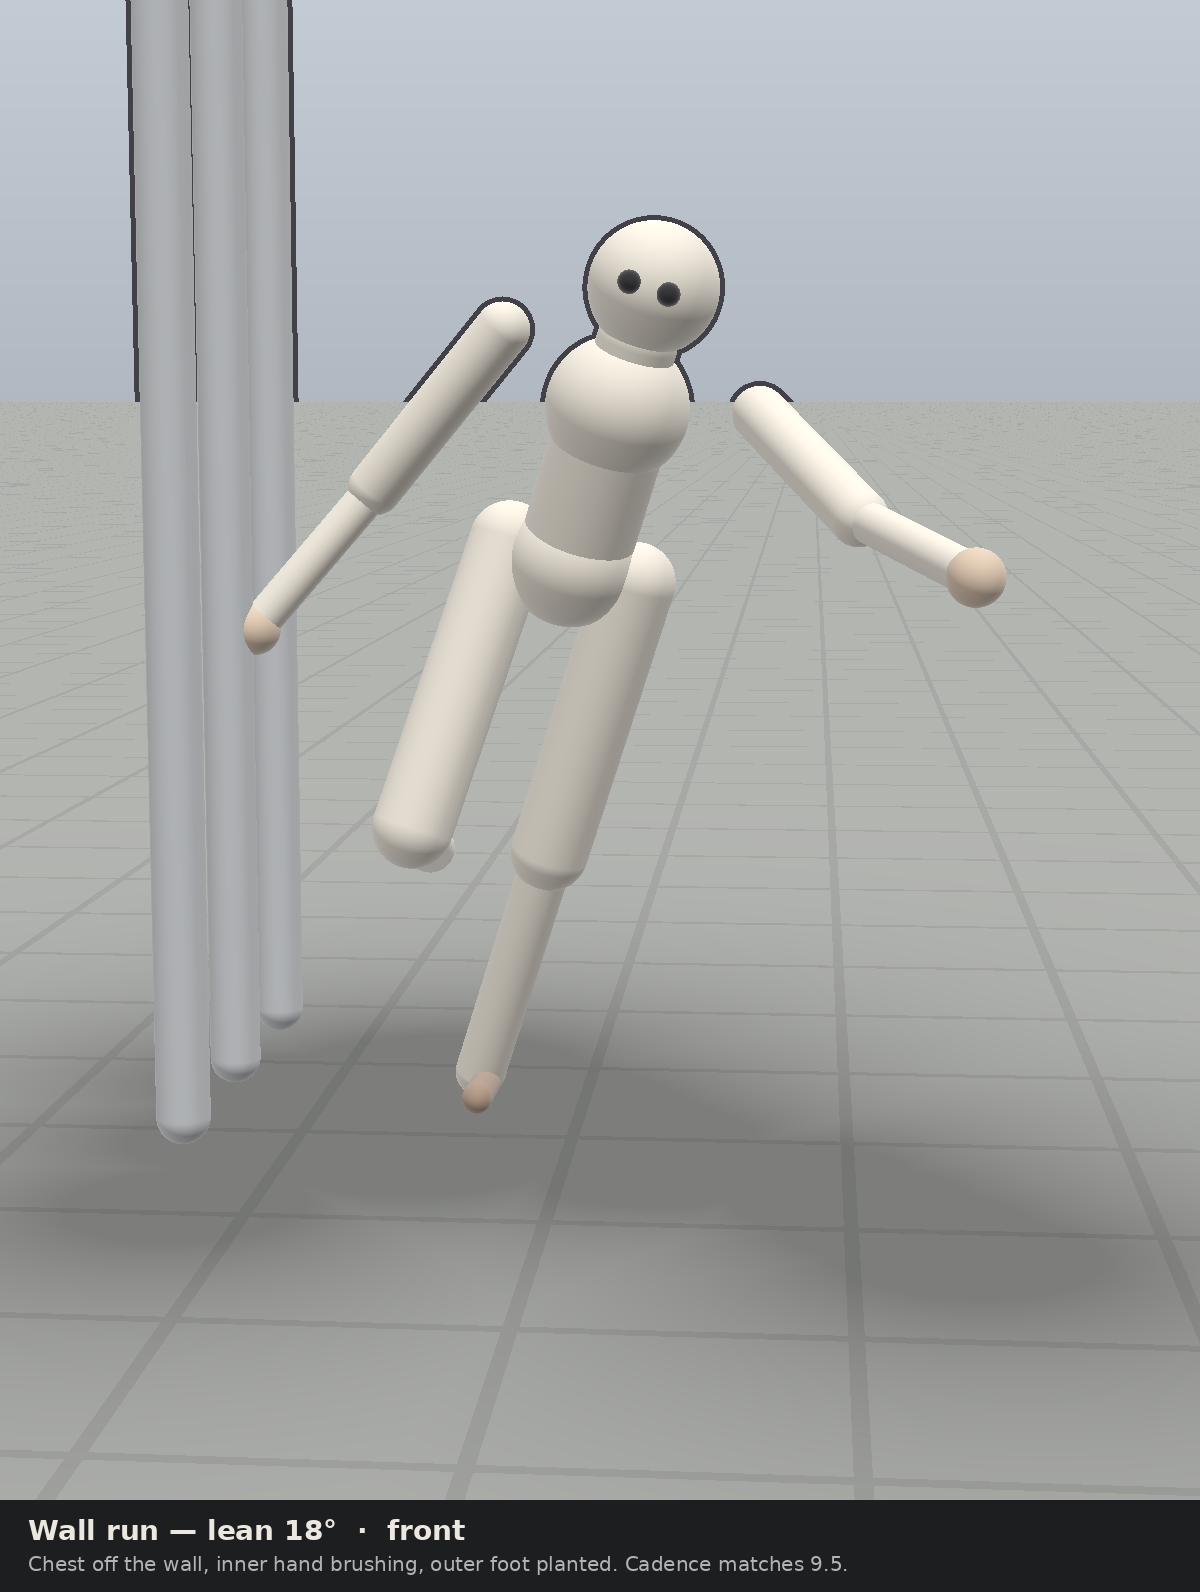
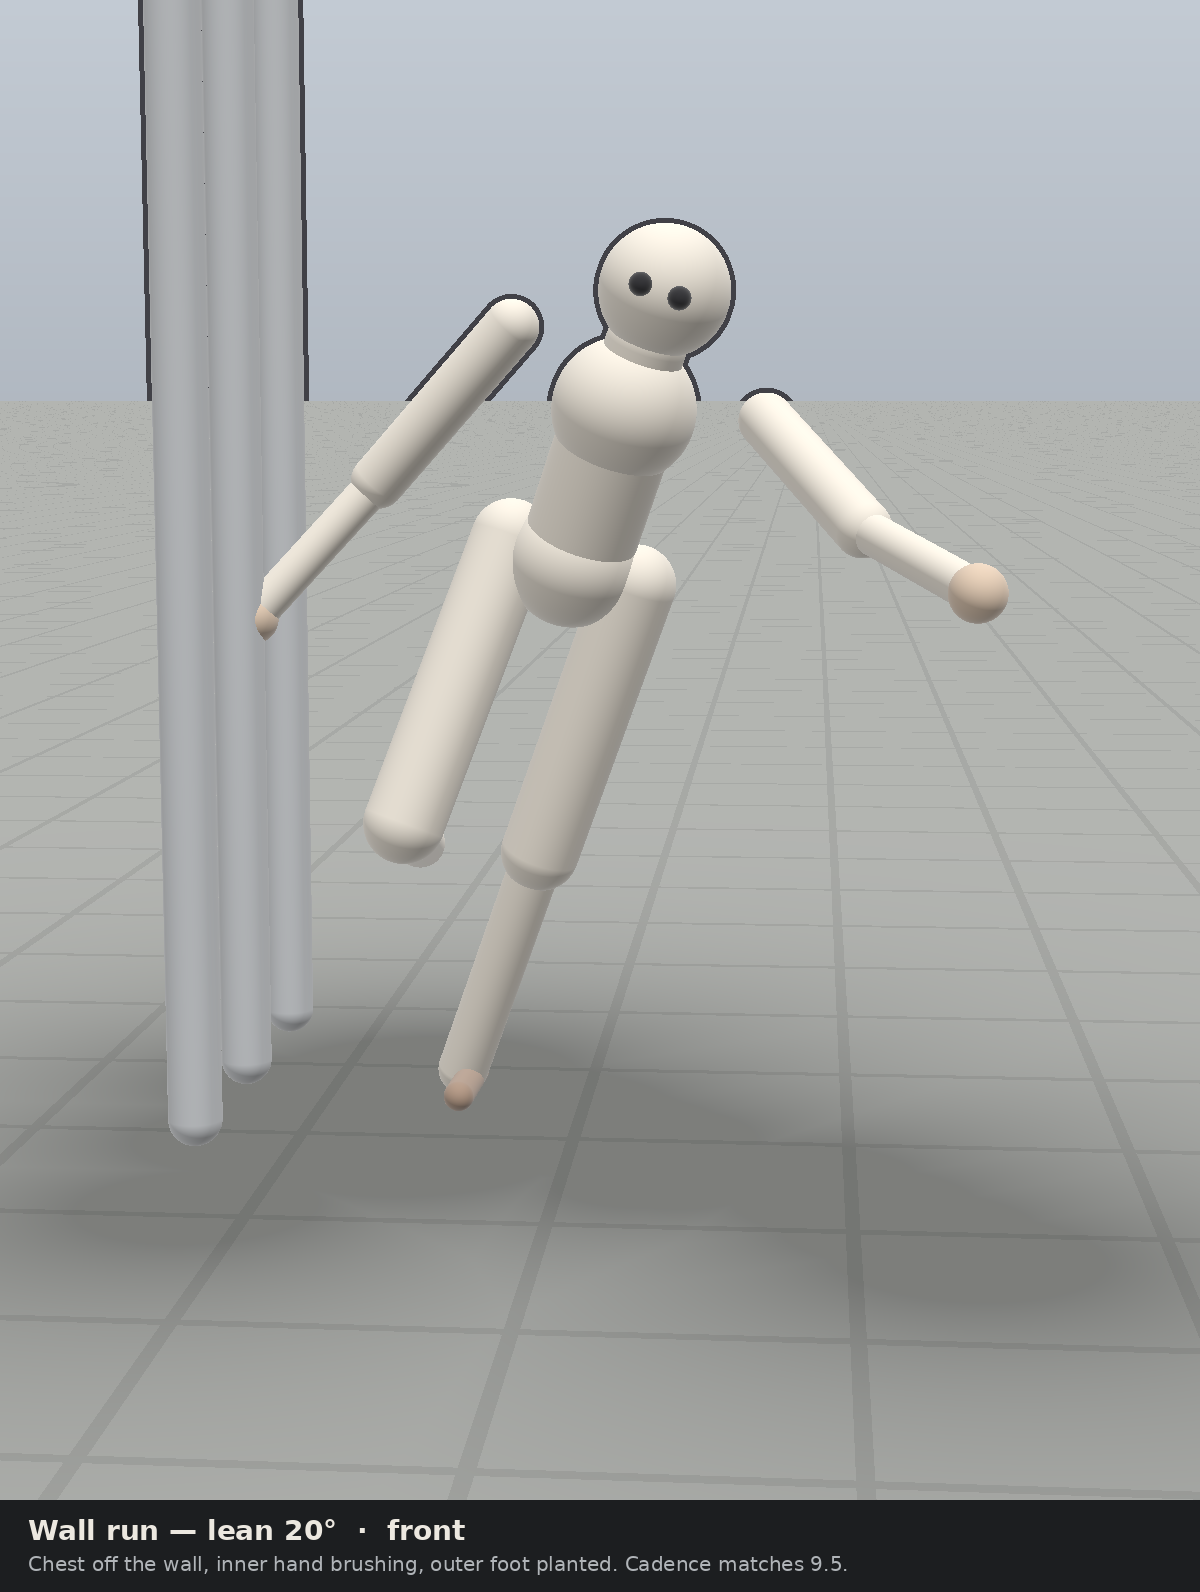
Lean the wall-run 20° so it stays past the air-strafe roll.
The air-strafe pose already rolls 18°. A 20° wall lean keeps the 15–20° silhouette and the existing distinctness check.

diff --git a/Tools/Tag/render_anim_stills.py b/Tools/Tag/render_anim_stills.py
@@ -504,8 +504,8 @@ def build_wallrun():
     add_leg(rig, 1.0, -10.0, 0.0, -5.0, "plant")
     add_arm(rig, -1.0, chest, 5.0, 36.0, -18.0)
     add_arm(rig, 1.0, chest, -61.0, 12.0, -16.0)
-    rig.roll(-18.0)
-    add_wall_x(rig, -0.61)
+    rig.roll(-20.0)
+    add_wall_x(rig, -0.59)
     return rig
 
 
@@ -589,8 +589,8 @@ def build_land_hard():
 
 
 def mech_checks():
-    hand = roll(arm(-1.0, 18.0, 5.0, 36.0, -18.0)[2], -18.0)
-    ankle = roll(limb(1.0, -10.0, 0.0, -5.0)[2], -18.0)
+    hand = roll(arm(-1.0, 18.0, 5.0, 36.0, -18.0)[2], -20.0)
+    ankle = roll(limb(1.0, -10.0, 0.0, -5.0)[2], -20.0)
     print(f"wallrun hand={hand[0]:.3f},{hand[1]:.3f} ankle={ankle[1]:.3f}")
     if hand[0] > -0.50 or ankle[1] > 0.12 or ankle[1] < -0.02:
         raise SystemExit("wall-run contact failed")
@@ -660,7 +660,7 @@ def main():
         (build_launch, "launch_apex", "Launch pad — apex tuck", "Arms up, knees tucked. Not the jump rise. Opens again on the way down."),
         (build_zip, "zip_hang", "Zip line — two-hand hang", "Hands under the cable, legs forward, sway at the 14 m/s ride."),
         (build_stagger, "stagger", "Punch stagger — 0.25 s", "Head and chest snap back. One leg steps. Window matches the motor."),
-        (build_wallrun, "wallrun", "Wall run — lean 18°", "Chest off the wall, inner hand brushing, outer foot planted. Cadence matches 9.5."),
+        (build_wallrun, "wallrun", "Wall run — lean 20°", "Chest off the wall, inner hand brushing, outer foot planted. Cadence matches 9.5."),
         (build_climb, "climb", "Cling climb — hand over hand", "High hand reaches, low hand pulls. Feet on the wall. Synced to climb 6.0."),
         (build_slip, "slip", "Cling slip — hands dragging", "Hands stay high and slide. Hips sag. Feet come off the floor. Slip speed 3.7."),
         (build_walljump, "walljump", "Wall jump — both feet off", "Kick leaves the wall. Arms swing away, then the jump pose takes over."),

diff --git a/Assets/Scripts/Art/WallPose.cs b/Assets/Scripts/Art/WallPose.cs
@@ -69,7 +69,7 @@ namespace Tag.Art
         public const float SlipSag = 0.18f;
 
         /// <summary>Roll off the wall, 15–20°. Wall-on-the-left is negative.</summary>
-        public const float RunTilt = 18f;
+        public const float RunTilt = 20f;
         public const float InnerPitch = 4f;
         public const float InnerSway = 3f;
         public const float InnerYaw = 36f;
